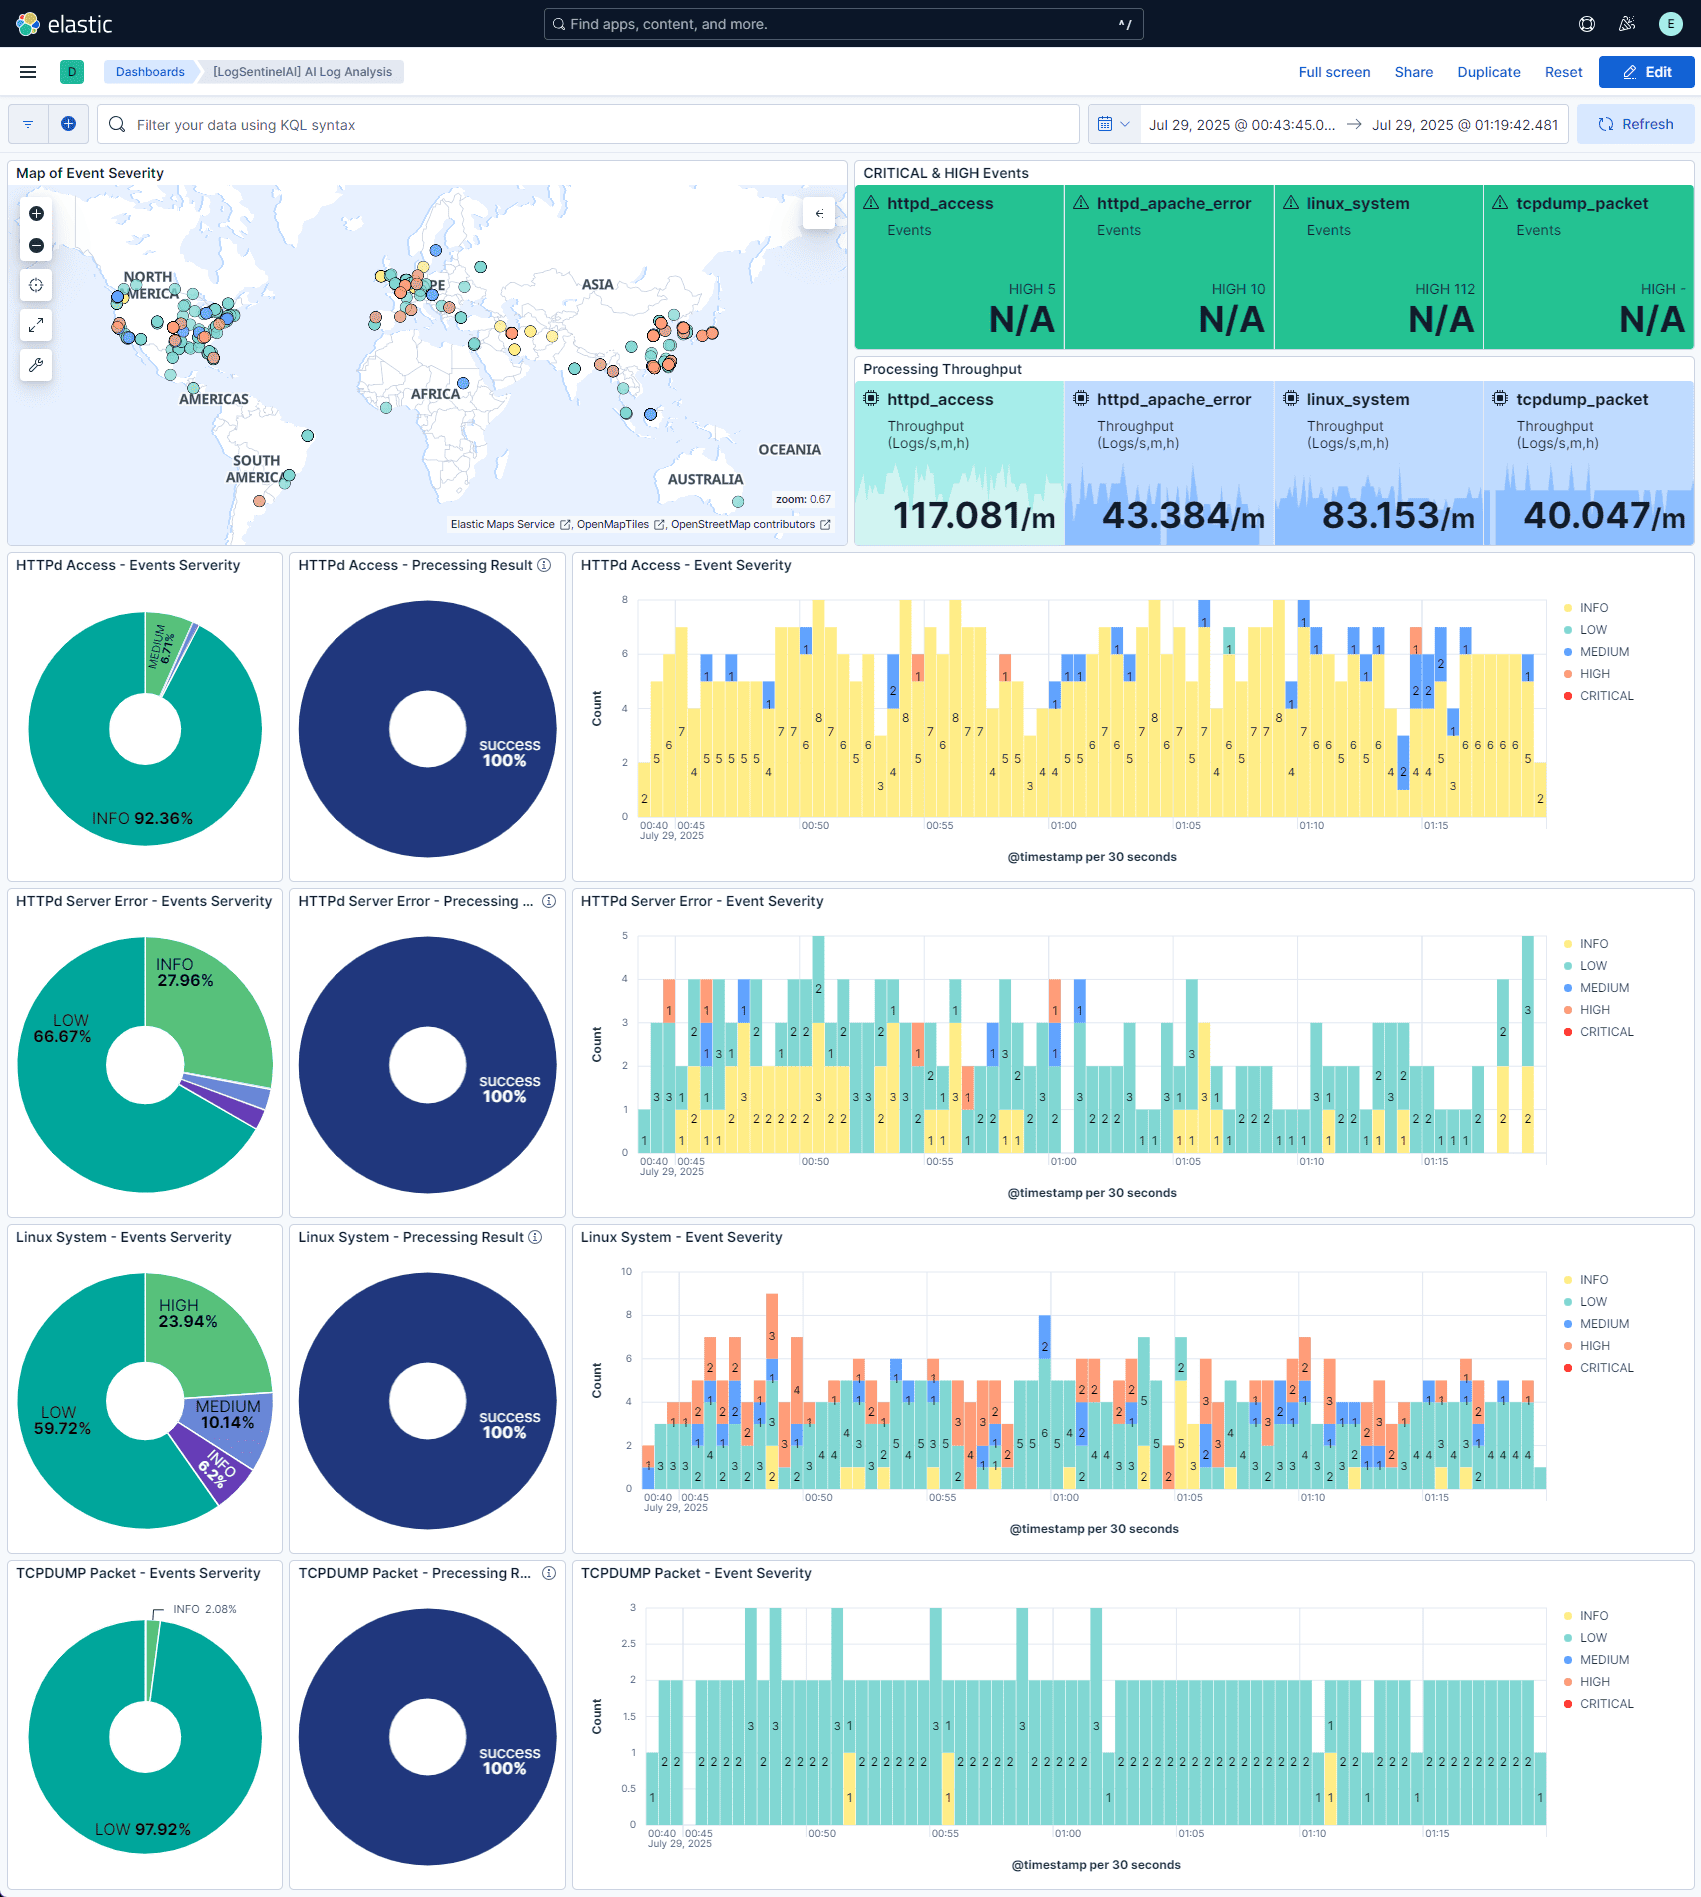
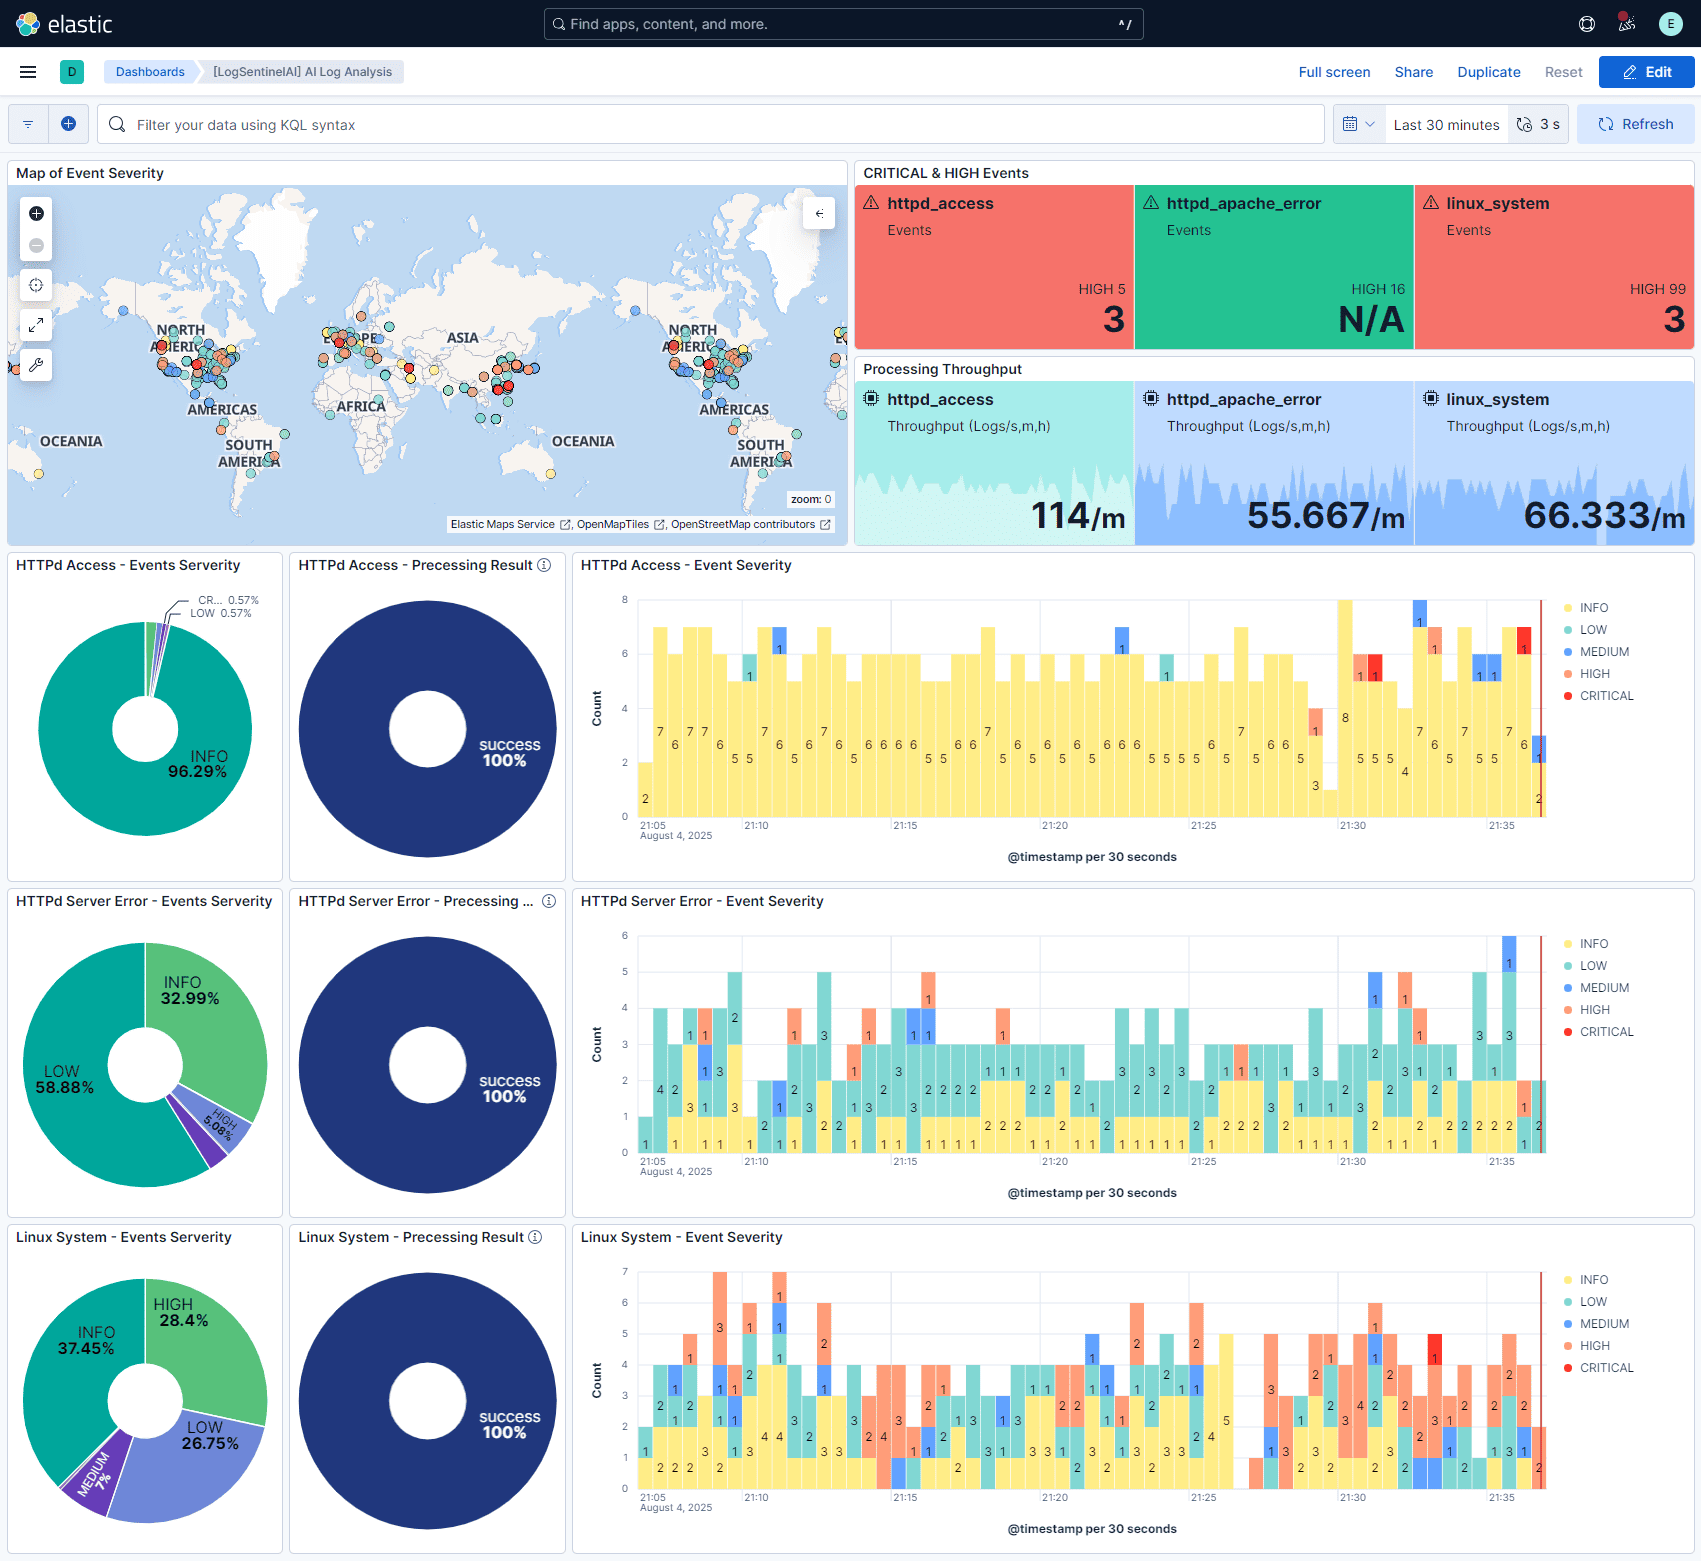
fix: update severity classifications in prompts for improved clarity and specificity

diff --git a/src/logsentinelai/core/prompts.py b/src/logsentinelai/core/prompts.py
@@ -9,10 +9,10 @@ THREAT ASSESSMENT:
 - NORMAL WEB CONTEXT: Single page = 10-100+ requests (HTML/CSS/JS/images/fonts/favicon/robots.txt)
 
 SEVERITY (threat-focused):
-- CRITICAL: Confirmed exploitation/compromise
-- HIGH: Clear attack campaigns with exploitation potential  
-- MEDIUM: Suspicious patterns requiring investigation
-- LOW: Minor anomalies in normal traffic
+- CRITICAL: Active exploitation attempts, SQL injection with union/select, RCE patterns, admin panel brute force, sensitive file access (/etc/passwd, config files), etc security attacks
+- HIGH: Clear attack campaigns, multiple injection attempts, directory traversal, XSS with script tags, coordinated scanning
+- MEDIUM: Suspicious patterns requiring investigation, reconnaissance attempts
+- LOW: Minor anomalies in normal traffic, isolated suspicious requests
 - INFO: Normal operations with monitoring value (search engine bots, routine browsing, static resources, single 404s, expected traffic patterns)
 
 KEY RULES:
@@ -44,9 +44,9 @@ PROMPT_TEMPLATE_HTTPD_APACHE_ERROR_LOG = """
 Expert Apache error log analyst. Extract LOGID-XXXXXX values for related_log_ids.
 
 SEVERITY (Apache-specific):
-- CRITICAL: Active exploitation with success indicators, server compromise
-- HIGH: Clear attack patterns with high exploitation potential
-- MEDIUM: Suspicious patterns requiring investigation
+- CRITICAL: Successful exploitation evidence, command execution attempts, active file inclusion/traversal success, privilege escalation indicators, segmentation faults, out of memory errors, critical module failures
+- HIGH: Multiple attack attempts from same source, clear malicious payloads, persistent scanning for vulnerabilities
+- MEDIUM: Suspicious patterns requiring investigation, reconnaissance activities
 - LOW: Routine scanning blocked by controls, isolated unusual requests
 - INFO: Normal server operations (startup/shutdown notices, module loading, config messages, single file not found errors, routine maintenance)
 
@@ -91,12 +91,12 @@ JSON schema: {model_schema}
 PROMPT_TEMPLATE_LINUX_SYSTEM_LOG = """
 Expert Linux system log analyst. Extract LOGID-XXXXXX values for related_log_ids.
 
-SEVERITY (conservative):
-- CRITICAL: Confirmed system compromise with evidence
-- HIGH: Sustained brute force (10+ failures), clear privilege escalation success
-- MEDIUM: Multiple suspicious auth attempts (5-9 failures), potential reconnaissance
-- LOW: Few failed logins (2-4), routine privilege usage, minor anomalies
-- INFO: Noteworthy monitoring patterns (20+ logins/hour from single source, first-time admin access from new locations, config changes, maintenance activities)
+SEVERITY (security-focused):
+- CRITICAL: Evidence of successful compromise, root access gained, malicious code execution, data exfiltration indicators
+- HIGH: Sustained brute force (8+ failures), privilege escalation attempts, unusual administrative access patterns, repeated security violations
+- MEDIUM: Multiple suspicious auth attempts (4-7 failures), potential reconnaissance, unusual user behavior
+- LOW: Few failed logins (2-3), routine privilege usage, minor anomalies, isolated security events
+- INFO: Normal system operations (regular cron jobs, standard logins, routine sudo usage, service starts/stops, scheduled tasks, logrotate, expected user/group changes, system maintenance activities)
 
 CONSOLIDATION (CRITICAL):
 - CONSOLIDATE similar routine activities into SINGLE events
@@ -111,7 +111,9 @@ NORMAL vs SUSPICIOUS:
 KEY RULES:
 - MANDATORY: Never empty events array
 - Consolidate similar activities comprehensively
-- Be conservative with severity - avoid over-flagging routine operations
+- **PRIORITIZE INFO classification for routine operations** - normal system activities should be INFO
+- Most daily operations (cron, regular logins, service management) = INFO level
+- Only escalate to higher severity for genuine security concerns
 - If no notable events found, create at least 1 INFO event summarizing normal operations
     - description: For higher severity, provide as much detail as possible: criteria, rationale, impact, cause, and expected consequences.
     - recommended_actions: For each action, explain the reason, purpose, expected effect, impact, and, if possible, both best and alternative options. Each recommended_action must include concrete commands, procedures, and timelines.
